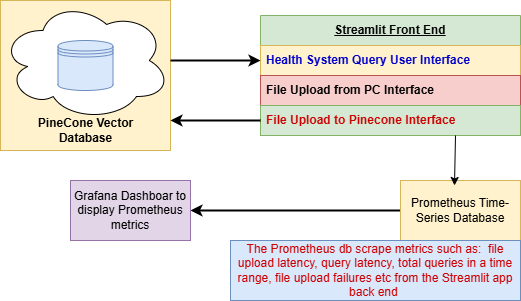
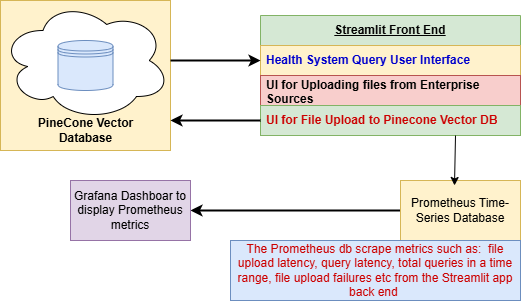
first commit

Changed region(s): [[0.4914, 0.2691, 0.952, 0.4186]]

diff --git a/app/main.py b/app/main.py
@@ -6,40 +6,59 @@ from langchain_pinecone import PineconeVectorStore
 from pinecone import Pinecone, ServerlessSpec
 from langchain.document_loaders import TextLoader, PyPDFLoader, UnstructuredFileLoader
 from langchain.text_splitter import CharacterTextSplitter
+from langchain.chat_models import ChatOpenAI
+from langchain.chains import RetrievalQA
 
 # Prometheus imports
-from prometheus_client import start_http_server, Counter, Histogram, REGISTRY
+from prometheus_client import start_http_server, Counter, Histogram, Gauge, REGISTRY
 
 # Load environment variables from .env
 load_dotenv()
 
-# API Keys (loaded from .env)
+# API Keys
 OPENAI_API_KEY = os.getenv("OPENAI_API_KEY")
 PINECONE_API_KEY = os.getenv("PINECONE_API_KEY")
 PINECONE_ENVIRONMENT = os.getenv("PINECONE_ENVIRONMENT")
 PINECONE_INDEX_NAME = os.getenv("PINECONE_INDEX_NAME")
 
-# Function to avoid duplicate Prometheus metrics
+# Function to avoid duplicate metrics
 def get_or_create_metric(metric_type, name, documentation, **kwargs):
     if name in REGISTRY._names_to_collectors:
         return REGISTRY._names_to_collectors[name]
     return metric_type(name, documentation, **kwargs)
 
-# Start Prometheus metrics server only once
+# Start Prometheus server
 if "prometheus_started" not in st.session_state:
     start_http_server(9001)
     st.session_state["prometheus_started"] = True
 
-# Prometheus metrics
-queries_total = get_or_create_metric(Counter, 'total_queries', 'Total number of user queries')
-uploads_total = get_or_create_metric(Counter, 'total_uploads', 'Total number of document uploads')
-upload_failures_total = get_or_create_metric(Counter, 'upload_failures_total', 'Total failed document uploads')
-query_failures_total = get_or_create_metric(Counter, 'query_failures_total', 'Total failed user queries')
+# ─────────────── Prometheus Metrics ───────────────
+queries_total = get_or_create_metric(Counter, 'total_queries', 'Total number of user queries', labelnames=["user"])
+uploads_total = get_or_create_metric(Counter, 'total_uploads', 'Total number of document uploads', labelnames=["user"])
 
-upload_latency_seconds = get_or_create_metric(Histogram, 'upload_latency_seconds', 'Time taken to upload documents')
-query_latency_seconds = get_or_create_metric(Histogram, 'query_latency_seconds', 'Time taken to respond to a query')
+upload_failures_total = get_or_create_metric(Counter, 'upload_failures_total', 'Total failed document uploads', labelnames=["user"])
+query_failures_total = get_or_create_metric(Counter, 'query_failures_total', 'Total failed user queries', labelnames=["user"])
+retrieval_failures_total = get_or_create_metric(Counter, 'retrieval_failures_total', 'Total failed Pinecone retrievals', labelnames=["user"])
+llm_failures_total = get_or_create_metric(Counter, 'llm_failures_total', 'Total failed LLM responses', labelnames=["user"])
 
-# Load and split documents
+upload_latency_seconds = get_or_create_metric(Histogram, 'upload_latency_seconds', 'Time taken to upload documents', labelnames=["user"])
+query_latency_seconds = get_or_create_metric(Histogram, 'query_latency_seconds', 'End-to-end query latency (retrieval + LLM)', labelnames=["user"])
+llm_latency_seconds = get_or_create_metric(Histogram, 'llm_latency_seconds', 'Time taken by LLM to generate a response', labelnames=["user"])
+retrieval_latency_seconds = get_or_create_metric(Histogram, 'retrieval_latency_seconds', 'Time taken by Pinecone retrieval', labelnames=["user"])
+
+document_chunks_uploaded = get_or_create_metric(
+    Histogram,
+    'document_chunks_uploaded',
+    'Number of chunks generated per uploaded document batch',
+    labelnames=["user"],
+    buckets=[1, 10, 50, 100, 500, 1000, 5000]
+)
+
+queries_in_progress = get_or_create_metric(Gauge, 'queries_in_progress', 'Number of queries currently being processed', labelnames=["user"])
+retrievals_in_progress = get_or_create_metric(Gauge, 'retrievals_in_progress', 'Number of retrievals currently being processed', labelnames=["user"])
+llms_in_progress = get_or_create_metric(Gauge, 'llms_in_progress', 'Number of LLM generations currently being processed', labelnames=["user"])
+
+# ─────────────── Document Handling ───────────────
 def load_and_split_documents(folder_path):
     all_documents = []
     for filename in os.listdir(folder_path):
@@ -63,8 +82,7 @@ def load_and_split_documents(folder_path):
             st.error(f"Failed to load {filename}: {e}")
 
     text_splitter = CharacterTextSplitter(chunk_size=500, chunk_overlap=100)
-    split_docs = text_splitter.split_documents(all_documents)
-    return split_docs
+    return text_splitter.split_documents(all_documents)
 
 def get_embeddings():
     return OpenAIEmbeddings(openai_api_key=OPENAI_API_KEY)
@@ -79,49 +97,95 @@ def init_pinecone():
             spec=ServerlessSpec(cloud="aws", region=PINECONE_ENVIRONMENT)
         )
 
-@upload_latency_seconds.time()
-def upload_documents_to_pinecone(docs, embeddings):
+@upload_latency_seconds.labels(user="anonymous").time()
+def upload_documents_to_pinecone(docs, embeddings, user_id):
     try:
         pc = Pinecone(api_key=PINECONE_API_KEY)
         PineconeVectorStore.from_documents(
             docs, embedding=embeddings, index_name=PINECONE_INDEX_NAME
         )
-        uploads_total.inc()
+        uploads_total.labels(user=user_id).inc()
+        document_chunks_uploaded.labels(user=user_id).observe(len(docs))
         st.success(f"Uploaded {len(docs)} chunks to Pinecone.")
     except Exception as e:
-        upload_failures_total.inc()
+        upload_failures_total.labels(user=user_id).inc()
         st.error(f"Upload failed: {e}")
 
-@query_latency_seconds.time()
-def query_pinecone(query_text, top_k=3):
-    try:
-        embeddings = get_embeddings()
-        pc = Pinecone(api_key=PINECONE_API_KEY)
-        vectorstore = PineconeVectorStore(
-            embedding=embeddings,
-            index_name=PINECONE_INDEX_NAME
-        )
-        results = vectorstore.similarity_search(query_text, k=top_k)
-        queries_total.inc()
-        return results
-    except Exception as e:
-        query_failures_total.inc()
-        st.error(f"Query failed: {e}")
-        return []
+# ─────────────── Query Handling ───────────────
+def build_qa_chain():
+    embeddings = get_embeddings()
+    pc = Pinecone(api_key=PINECONE_API_KEY)
+    vectorstore = PineconeVectorStore(
+        embedding=embeddings,
+        index_name=PINECONE_INDEX_NAME
+    )
 
-# --- Streamlit UI ---
+    llm = ChatOpenAI(
+        openai_api_key=OPENAI_API_KEY,
+        model="gpt-4",  # change to gpt-3.5-turbo if desired
+        temperature=0.0
+    )
+
+    qa_chain = RetrievalQA.from_chain_type(
+        llm=llm,
+        retriever=vectorstore.as_retriever(search_kwargs={"k": 3}),
+        return_source_documents=True
+    )
+    return qa_chain, vectorstore
+
+@query_latency_seconds.labels(user="anonymous").time()
+def query_with_llm(query_text, user_id):
+    queries_in_progress.labels(user=user_id).inc()
+    try:
+        qa_chain, vectorstore = build_qa_chain()
+
+        # Retrieval
+        retrievals_in_progress.labels(user=user_id).inc()
+        try:
+            with retrieval_latency_seconds.labels(user=user_id).time():
+                retriever = vectorstore.as_retriever(search_kwargs={"k": 3})
+                retrieved_docs = retriever.get_relevant_documents(query_text)
+        except Exception as e:
+            retrieval_failures_total.labels(user=user_id).inc()
+            query_failures_total.labels(user=user_id).inc()
+            st.error(f"Pinecone retrieval failed: {e}")
+            return None
+        finally:
+            retrievals_in_progress.labels(user=user_id).dec()
+
+        # LLM
+        llms_in_progress.labels(user=user_id).inc()
+        try:
+            with llm_latency_seconds.labels(user=user_id).time():
+                result = qa_chain({"query": query_text})
+        except Exception as e:
+            llm_failures_total.labels(user=user_id).inc()
+            query_failures_total.labels(user=user_id).inc()
+            st.error(f"LLM generation failed: {e}")
+            return None
+        finally:
+            llms_in_progress.labels(user=user_id).dec()
+
+        queries_total.labels(user=user_id).inc()
+        return result
+
+    except Exception as e:
+        query_failures_total.labels(user=user_id).inc()
+        st.error(f"Unexpected query pipeline failure: {e}")
+        return None
+    finally:
+        queries_in_progress.labels(user=user_id).dec()
+
+# ─────────────── Streamlit UI ───────────────
 st.title("📄 An Enterprise LLM System for Health-Care Applications")
 st.header("(designed by Emmanuel Oyekanlu)")
 
-# # ----If needed, use the debug Panel to validate if API keys gets up to 
-# with st.expander("🔐 Environment Key Debug"):
-#     st.write("OPENAI_API_KEY exists?", bool(OPENAI_API_KEY))
-#     st.write("PINECONE_API_KEY exists?", bool(PINECONE_API_KEY))
-#     st.write("PINECONE_ENVIRONMENT:", PINECONE_ENVIRONMENT)
-#     st.write("PINECONE_INDEX_NAME:", PINECONE_INDEX_NAME)
-
+# User ID input
 with st.sidebar:
-    st.header("📂 Upload New Files Here")
+    st.header("👤 User Info")
+    user_id = st.text_input("Enter your user ID", value="anonymous")
+
+    st.header("📂 Upload New Files")
     uploaded_files = st.file_uploader("Choose files", accept_multiple_files=True)
     if uploaded_files:
         os.makedirs("documents", exist_ok=True)
@@ -131,19 +195,26 @@ with st.sidebar:
                 f.write(file.read())
         st.success("Files uploaded!")
 
-    if st.button("📤 Process & Upload New Files to Pinecone Vector Database"):
+    if st.button("📤 Process & Upload to Pinecone"):
         init_pinecone()
         docs = load_and_split_documents("documents")
         embeddings = get_embeddings()
-        upload_documents_to_pinecone(docs, embeddings)
+        upload_documents_to_pinecone(docs, embeddings, user_id)
 
+# Query UI
 st.header("🔍 Query Health System Database")
 query_input = st.text_input("Enter your question")
+
 if st.button("Search"):
     if query_input:
-        results = query_pinecone(query_input)
-        for i, doc in enumerate(results):
-            st.markdown(f"**Result {i+1}:**")
-            st.write(doc.page_content)
+        result = query_with_llm(query_input, user_id)
+        if result:
+            st.subheader("💡 Answer from LLM")
+            st.write(result["result"])
+
+            st.subheader("📚 Supporting Sources")
+            for i, doc in enumerate(result["source_documents"]):
+                st.markdown(f"**Source {i+1}:**")
+                st.write(doc.page_content[:500] + "...")
     else:
         st.warning("Please enter a query.")

diff --git a/README.md b/README.md
@@ -1,1 +1,2 @@
 # An Enterprise LLM System for HealthCare Applications
+"# An-Enterprise-LLM-System-for-Healthcare-Applications-b" 
